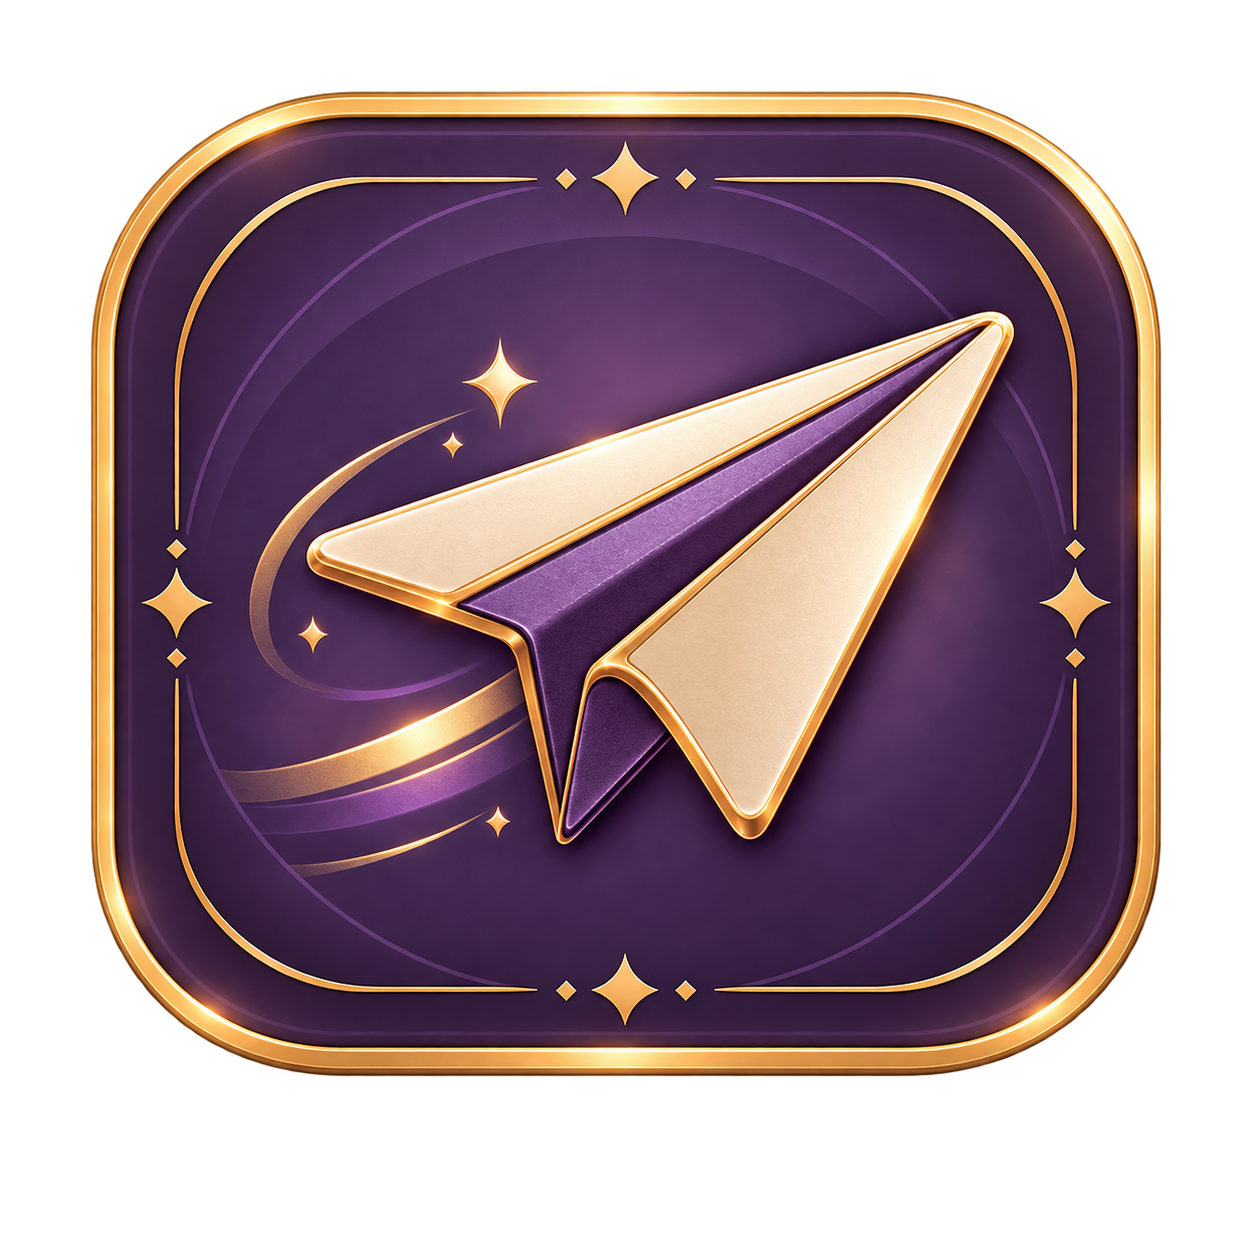
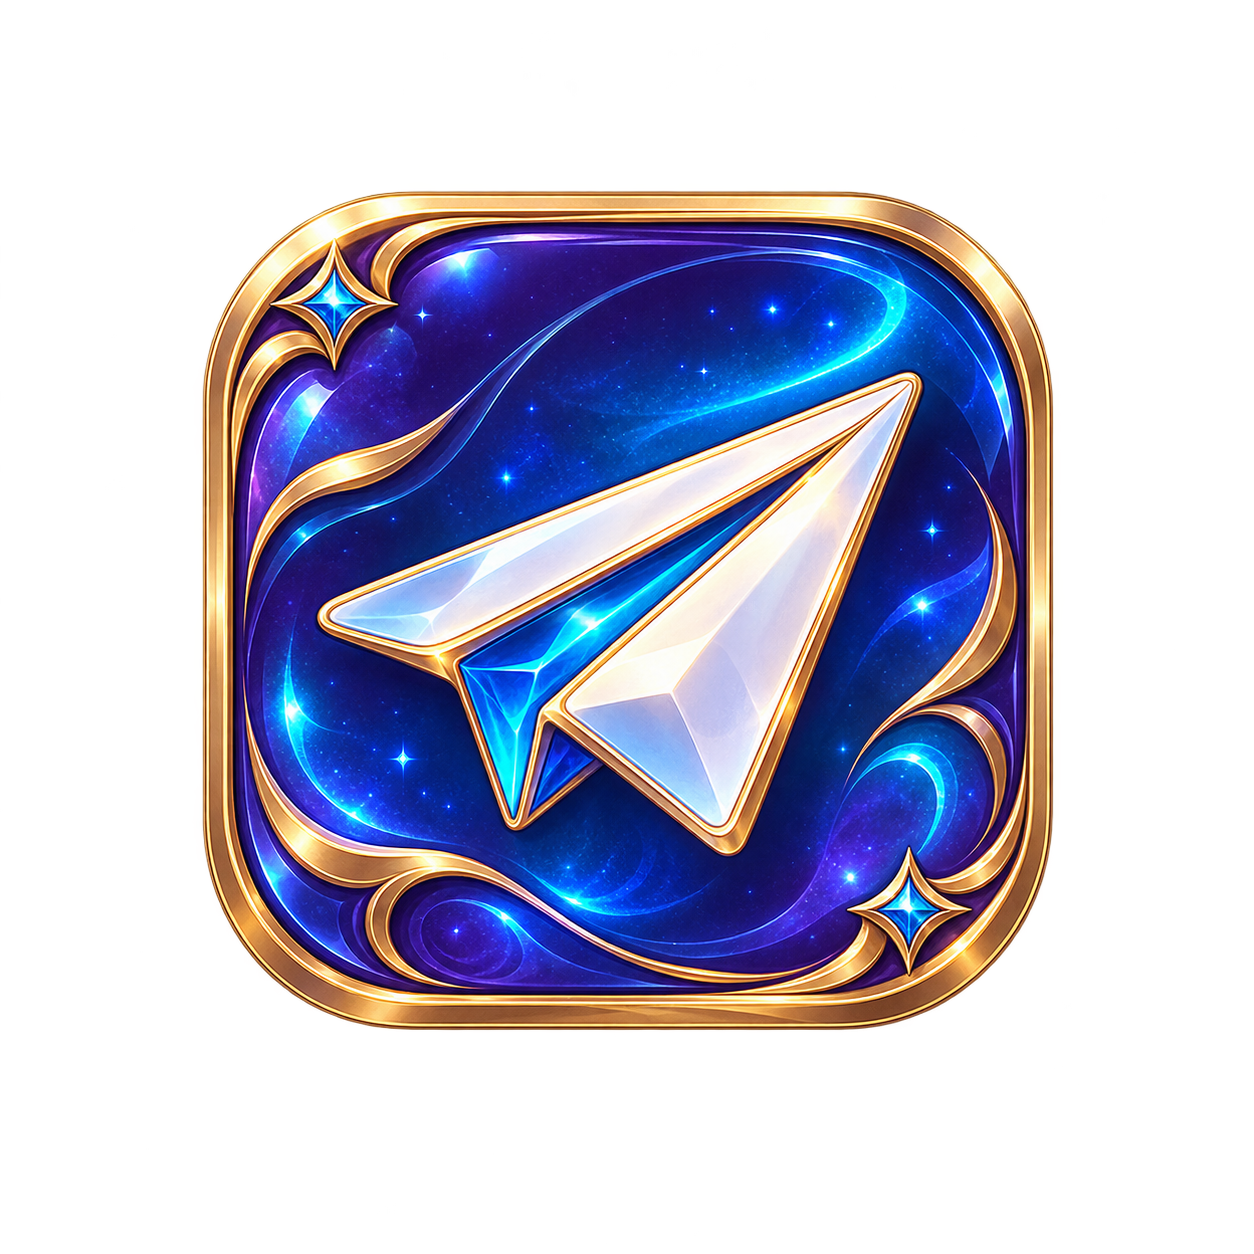
Refresh footer branding and featured links

diff --git a/app/globals.css b/app/globals.css
@@ -17,7 +17,7 @@ main{position:relative}.hero{max-width:none;display:grid;grid-template-columns:m
 .external-card{border:1px solid #ddceb0;border-radius:24px;border-left:4px solid #b79a60;background:linear-gradient(135deg,#fffdf7,#f5eff7);box-shadow:0 16px 44px #4c385014}.external-card-icon{border-radius:50%;background:#fff7e8;border-color:#d4bb84}.promo{border-radius:14px}
 .split{border-top:1px solid #c8ad72}.article-list a{position:relative;padding:25px 18px;border-radius:12px;transition:background .2s}.article-list a:hover{background:#fffaf3}.article-list strong{position:relative;width:max-content;max-width:100%}.faq details{background:#fffaf680;border:1px solid transparent;border-radius:15px;padding:19px 22px;margin:9px 0;transition:border-color .2s,background .2s}.faq details[open]{background:#fff;border-color:#ded0bd}.faq summary{transition:color .2s}.faq details[open] summary{color:var(--violet)}.policy-callout{background:linear-gradient(135deg,#30263b,#493752);border:1px solid #ab8b55;border-radius:26px;box-shadow:0 25px 60px #36283f27;position:relative;overflow:hidden}.policy-callout:after{content:"✦　◇　✦";position:absolute;right:25px;bottom:8px;color:#d8bc7a33;letter-spacing:.4em}
 .article-hero{position:relative;border-bottom:1px solid #cbb47f}.guide-page .article-hero:after{content:"";position:absolute;right:2%;top:10%;width:170px;height:170px;border-radius:50%;background:radial-gradient(circle,#fff9ea,#efe5d3);border:1px solid #dfc98e;opacity:.35;z-index:-1}.notice{border:1px solid rgba(150,110,175,.32);border-left:4px solid rgba(128,92,151,.68);border-radius:15px;background:linear-gradient(135deg,rgba(255,253,255,.96),rgba(244,236,249,.96));color:#43304f;box-shadow:inset 0 1px 0 rgba(255,255,255,.82),0 12px 30px rgba(76,58,86,.08)}.article-body>section{border-color:#ddcfbe}.chapter{width:52px;height:52px;border:1px solid #dbc48d;border-radius:50%;display:grid;place-items:center;background:#fffaf0}.table-wrap{border-radius:16px;box-shadow:0 13px 35px #45354910}table{overflow:hidden}th{background:#3b2f47}.related a{transition:background .2s,color .2s}.related a:hover{background:#f5eef6;color:var(--violet)}
-footer{position:relative;background:linear-gradient(155deg,#2a2134,#3a2b46);border-top:1px solid #a88a51;overflow:hidden}.footer-ornament{position:absolute;top:16px;left:50%;transform:translateX(-50%);color:#c6a765;letter-spacing:.6em}.footer-lotus{display:inline-grid;place-items:center;width:34px;height:34px;border:1px solid #c2a15f;border-radius:50%;color:#fff}.age-mark{display:inline-flex;width:max-content;padding:4px 9px;border:1px solid #7c6983;border-radius:99px;color:#c9bdcd;font-size:10px}.footer-grid a{position:relative;width:max-content}.footer-grid a:after{content:"";position:absolute;left:0;right:100%;bottom:-2px;height:1px;background:#c6a765;transition:right .2s}.footer-grid a:hover:after{right:0}
+footer{position:relative;background:linear-gradient(155deg,#2a2134,#3a2b46);border-top:1px solid #a88a51;overflow:hidden}.footer-ornament{position:absolute;top:16px;left:50%;transform:translateX(-50%);color:#c6a765;letter-spacing:.6em}.age-mark{display:inline-flex;width:max-content;padding:4px 9px;border:1px solid #7c6983;border-radius:99px;color:#c9bdcd;font-size:10px}.footer-grid a{position:relative;width:max-content}.footer-grid a:after{content:"";position:absolute;left:0;right:100%;bottom:-2px;height:1px;background:#c6a765;transition:right .2s}.footer-grid a:hover:after{right:0}
 .footer-grid a:not(.footer-featured-link){transition:color 180ms ease}.footer-grid a:not(.footer-featured-link):hover{color:#fff7e9}.footer-grid a:focus-visible{outline:2px solid #d7b96f;outline-offset:4px;border-radius:4px}.footer-featured-link{display:grid;grid-template-columns:34px minmax(0,1fr);align-items:center;gap:10px;width:min(100%,250px);margin:4px 0;padding:11px 12px;border:1px solid rgba(211,180,109,.52);border-radius:13px;color:#f7f1fa;background:linear-gradient(135deg,rgba(255,255,255,.075),rgba(218,198,229,.05));box-shadow:inset 0 1px 0 rgba(255,255,255,.09),0 8px 24px rgba(12,7,18,.12);transition:transform 180ms ease,border-color 180ms ease,background-color 180ms ease,box-shadow 180ms ease,color 180ms ease}.footer-grid .footer-featured-link:after{display:none}.footer-featured-icon{display:grid;place-items:center;width:34px;height:34px;border:1px solid rgba(219,191,128,.48);border-radius:10px;background:rgba(255,250,239,.08);color:#e3c982;font:18px/1 Georgia,serif}.footer-featured-copy{display:flex;min-width:0;flex-direction:column;line-height:1.25}.footer-featured-copy b{font-size:12px;letter-spacing:.015em}.footer-featured-copy small{margin-top:3px;color:#bfb4c7;font-size:9px;line-height:1.25}.footer-featured-link--telegram{border-color:rgba(186,156,201,.58);background:linear-gradient(135deg,rgba(151,112,172,.18),rgba(255,250,239,.055))}.footer-featured-link--telegram .footer-featured-icon{border-color:rgba(190,158,205,.55);color:#dbc4e6}.footer-featured-link--moon{border-color:rgba(218,183,102,.64);background:linear-gradient(135deg,rgba(205,170,91,.14),rgba(137,94,157,.13))}.footer-featured-link:hover{transform:translateY(-2px);border-color:#dcc078;color:#fff;box-shadow:inset 0 1px 0 rgba(255,255,255,.13),0 12px 28px rgba(10,5,16,.22),0 0 18px rgba(199,165,94,.08)}.footer-featured-link:focus-visible{outline:2px solid #e3c77f;outline-offset:3px}.footer-featured-link:active{transform:translateY(0)}
 .footer-featured-icon--image{border:0;background:transparent}.footer-featured-icon--image img{display:block;width:32px;height:32px;object-fit:contain}
 @media(prefers-reduced-motion:no-preference){.reveal{animation:soft-in .55s ease both}.reveal:nth-child(2){animation-delay:.06s}.reveal:nth-child(3){animation-delay:.12s}.reveal:nth-child(4){animation-delay:.18s}.faq details p{animation:soft-in .2s ease both}@keyframes soft-in{from{opacity:0;transform:translateY(12px)}to{opacity:1;transform:none}}}
@@ -992,4 +992,90 @@ main{padding-top:12px}
   .related a:hover,.catalog-links a:hover{transform:none}
   .home-guide-card,.home-guide-card b{transition:none!important}
   .home-guide-card:hover{transform:none!important}
+}
+
+/* Footer brand mark and featured resources. */
+.footer-brand{
+  display:flex;
+  align-items:center;
+  gap:11px;
+  line-height:1.1;
+}
+.footer-brand-mark{
+  display:block;
+  flex:0 0 auto;
+  width:44px;
+  height:44px;
+  object-fit:contain;
+  pointer-events:none;
+}
+footer .footer-featured-link{
+  grid-template-columns:38px minmax(0,1fr);
+  gap:13px;
+  min-height:64px;
+  padding:10px 13px;
+  border-radius:14px;
+  background:linear-gradient(135deg,rgba(255,255,255,.10),rgba(180,150,205,.16));
+  box-shadow:inset 0 1px 0 rgba(255,255,255,.12),0 9px 24px rgba(12,7,18,.16);
+  transition:transform 180ms ease,border-color 180ms ease,background 180ms ease,box-shadow 180ms ease,color 180ms ease;
+}
+footer .footer-featured-link--pdf{border-color:rgba(211,180,109,.62)}
+footer .footer-featured-link--telegram{border-color:rgba(93,159,224,.66)}
+footer .footer-featured-link--moon{border-color:rgba(153,131,218,.64)}
+footer .footer-featured-icon,
+footer .footer-featured-icon--image{
+  width:38px;
+  height:38px;
+  border:0;
+  border-radius:0;
+  background:none;
+  box-shadow:none;
+}
+footer .footer-featured-icon--image img{
+  width:38px;
+  height:38px;
+  object-fit:contain;
+}
+footer .footer-featured-copy{line-height:1.3}
+footer .footer-featured-copy b{
+  color:#fffaf2;
+  font-size:15px;
+  font-weight:700;
+}
+footer .footer-featured-copy small{
+  margin-top:3px;
+  color:#d8cfde;
+  font-size:12px;
+  line-height:1.35;
+}
+footer .footer-featured-link:hover{
+  transform:translateY(-1px);
+  background:linear-gradient(135deg,rgba(255,255,255,.145),rgba(190,158,214,.22));
+  box-shadow:inset 0 1px 0 rgba(255,255,255,.16),0 12px 28px rgba(9,5,15,.22),0 0 14px rgba(156,132,199,.10);
+}
+footer .footer-featured-link--pdf:hover{border-color:rgba(226,197,130,.86)}
+footer .footer-featured-link--telegram:hover{border-color:rgba(112,183,239,.88)}
+footer .footer-featured-link--moon:hover{border-color:rgba(190,162,226,.86)}
+footer .footer-featured-link:focus-visible{
+  outline:3px solid rgba(239,211,142,.92);
+  outline-offset:3px;
+}
+@media(max-width:600px){
+  .footer-brand{gap:10px}
+  .footer-brand-mark{width:38px;height:38px}
+  footer .footer-featured-link{
+    grid-template-columns:34px minmax(0,1fr);
+    gap:11px;
+    min-height:58px;
+    padding:9px 12px;
+  }
+  footer .footer-featured-icon,
+  footer .footer-featured-icon--image,
+  footer .footer-featured-icon--image img{width:34px;height:34px}
+  footer .footer-featured-copy b{font-size:14px}
+  footer .footer-featured-copy small{font-size:11px}
+}
+@media(prefers-reduced-motion:reduce){
+  footer .footer-featured-link{transition:none!important}
+  footer .footer-featured-link:hover{transform:none}
 }

diff --git a/app/site.tsx b/app/site.tsx
@@ -44,5 +44,5 @@ export function FeaturedInternalLink({href,icon,iconImage,title,description,clas
 }
 
 export function SiteShell({children}:{children:React.ReactNode}) {
-  return <><SiteEffects/><header className="site-header"><div className="topline">18+ · Информационный ресурс для совершеннолетней аудитории</div><div className="header-inner"><Link href="/" className="brand"><img className="brand-mark" src={publicPath("/images/rudollforum-mark.png")} alt="" aria-hidden="true" width="42" height="42"/><span className="brand-title"><strong>Rudollforum</strong><em className="header-age">18+</em></span><span className="brand-subtitle">TPE и силиконовые куклы</span><small>Независимый справочник по выбору, покупке, уходу и хранению</small></Link><SiteNavigation/></div></header><main>{children}</main><footer><div className="footer-ornament" aria-hidden="true">✦　◇　✦</div><div className="footer-grid"><div><div className="footer-brand"><span className="footer-lotus">✦</span> Rudollforum</div><p>Независимый справочник по выбору, покупке, уходу и хранению силиконовых и ТПЕ-кукол.</p><span className="age-mark">18+ · Информационный ресурс</span><p className="footer-disclaimer">Rudollforum является независимым информационным справочником и сообществом владельцев силиконовых и ТПЕ-кукол. Сайт не принимает оплату и не оформляет заказы.</p></div><div><strong>Основное</strong><Link href="/guide">Практическое руководство</Link><FeaturedExternalLink href={publicPath("/documents/rudollforum-guide-tpe-silicone-2026.pdf")} variant="pdf" iconImage={publicPath("/images/footer/guide-icon.png")} title="Руководство PDF" subtitle="полная версия"/><Link href="/where-to-buy">Где купить</Link><Link href="/owner-reviews">Отзывы владельцев</Link><Link href="/safe-purchase">Безопасная покупка</Link><Link href="/shops/moon-doll-guide">Заказ на Moon-Doll</Link></div><div><strong>Эксплуатация</strong><Link href="/care">Уход</Link><Link href="/storage">Хранение</Link><Link href="/repair">Ремонт</Link></div><div><strong>О проекте</strong><Link href="/community">О сообществе</Link><Link href="/editorial-policy">Редакционная политика</Link><Link href="/age-policy">Возрастные ограничения</Link><Link href="/useful-links">Полезные ссылки</Link><FeaturedExternalLink href="https://t.me/rudollforum" variant="telegram" iconImage={publicPath("/images/footer/telegram-icon.png")} title="Telegram" subtitle="сообщество владельцев"/><FeaturedExternalLink href="https://www.moon-doll.com/" variant="moon" iconImage={publicPath("/images/footer/moondoll-icon.png")} title="Moon-Doll" subtitle="внешний магазин" rel="noopener noreferrer sponsored"/></div></div><div className="copyright"><span>18+. Сайт предназначен только для совершеннолетней аудитории.</span><span>© 2026 Rudollforum · Сайт не продаёт товары и не принимает оплату.</span></div></footer></>
+  return <><SiteEffects/><header className="site-header"><div className="topline">18+ · Информационный ресурс для совершеннолетней аудитории</div><div className="header-inner"><Link href="/" className="brand"><img className="brand-mark" src={publicPath("/images/rudollforum-mark.png")} alt="" aria-hidden="true" width="42" height="42"/><span className="brand-title"><strong>Rudollforum</strong><em className="header-age">18+</em></span><span className="brand-subtitle">TPE и силиконовые куклы</span><small>Независимый справочник по выбору, покупке, уходу и хранению</small></Link><SiteNavigation/></div></header><main>{children}</main><footer><div className="footer-ornament" aria-hidden="true">✦　◇　✦</div><div className="footer-grid"><div><div className="footer-brand"><img className="footer-brand-mark" src={publicPath("/images/footer/rudollforum-footer-mark.png")} alt="" aria-hidden="true" width="44" height="44"/><span>Rudollforum</span></div><p>Независимый справочник по выбору, покупке, уходу и хранению силиконовых и ТПЕ-кукол.</p><span className="age-mark">18+ · Информационный ресурс</span><p className="footer-disclaimer">Rudollforum является независимым информационным справочником и сообществом владельцев силиконовых и ТПЕ-кукол. Сайт не принимает оплату и не оформляет заказы.</p></div><div><strong>Основное</strong><Link href="/guide">Практическое руководство</Link><FeaturedExternalLink href={publicPath("/documents/rudollforum-guide-tpe-silicone-2026.pdf")} variant="pdf" iconImage={publicPath("/images/footer/guide-icon.png")} title="Руководство PDF" subtitle="полная версия"/><Link href="/where-to-buy">Где купить</Link><Link href="/owner-reviews">Отзывы владельцев</Link><Link href="/safe-purchase">Безопасная покупка</Link><Link href="/shops/moon-doll-guide">Заказ на Moon-Doll</Link></div><div><strong>Эксплуатация</strong><Link href="/care">Уход</Link><Link href="/storage">Хранение</Link><Link href="/repair">Ремонт</Link></div><div><strong>О проекте</strong><Link href="/community">О сообществе</Link><Link href="/editorial-policy">Редакционная политика</Link><Link href="/age-policy">Возрастные ограничения</Link><Link href="/useful-links">Полезные ссылки</Link><FeaturedExternalLink href="https://t.me/rudollforum" variant="telegram" iconImage={publicPath("/images/footer/telegram-icon.png")} title="Telegram" subtitle="сообщество владельцев"/><FeaturedExternalLink href="https://www.moon-doll.com/" variant="moon" iconImage={publicPath("/images/footer/moondoll-icon.png")} title="Moon-Doll" subtitle="внешний магазин" rel="noopener noreferrer sponsored"/></div></div><div className="copyright"><span>18+. Сайт предназначен только для совершеннолетней аудитории.</span><span>© 2026 Rudollforum · Сайт не продаёт товары и не принимает оплату.</span></div></footer></>
 }
